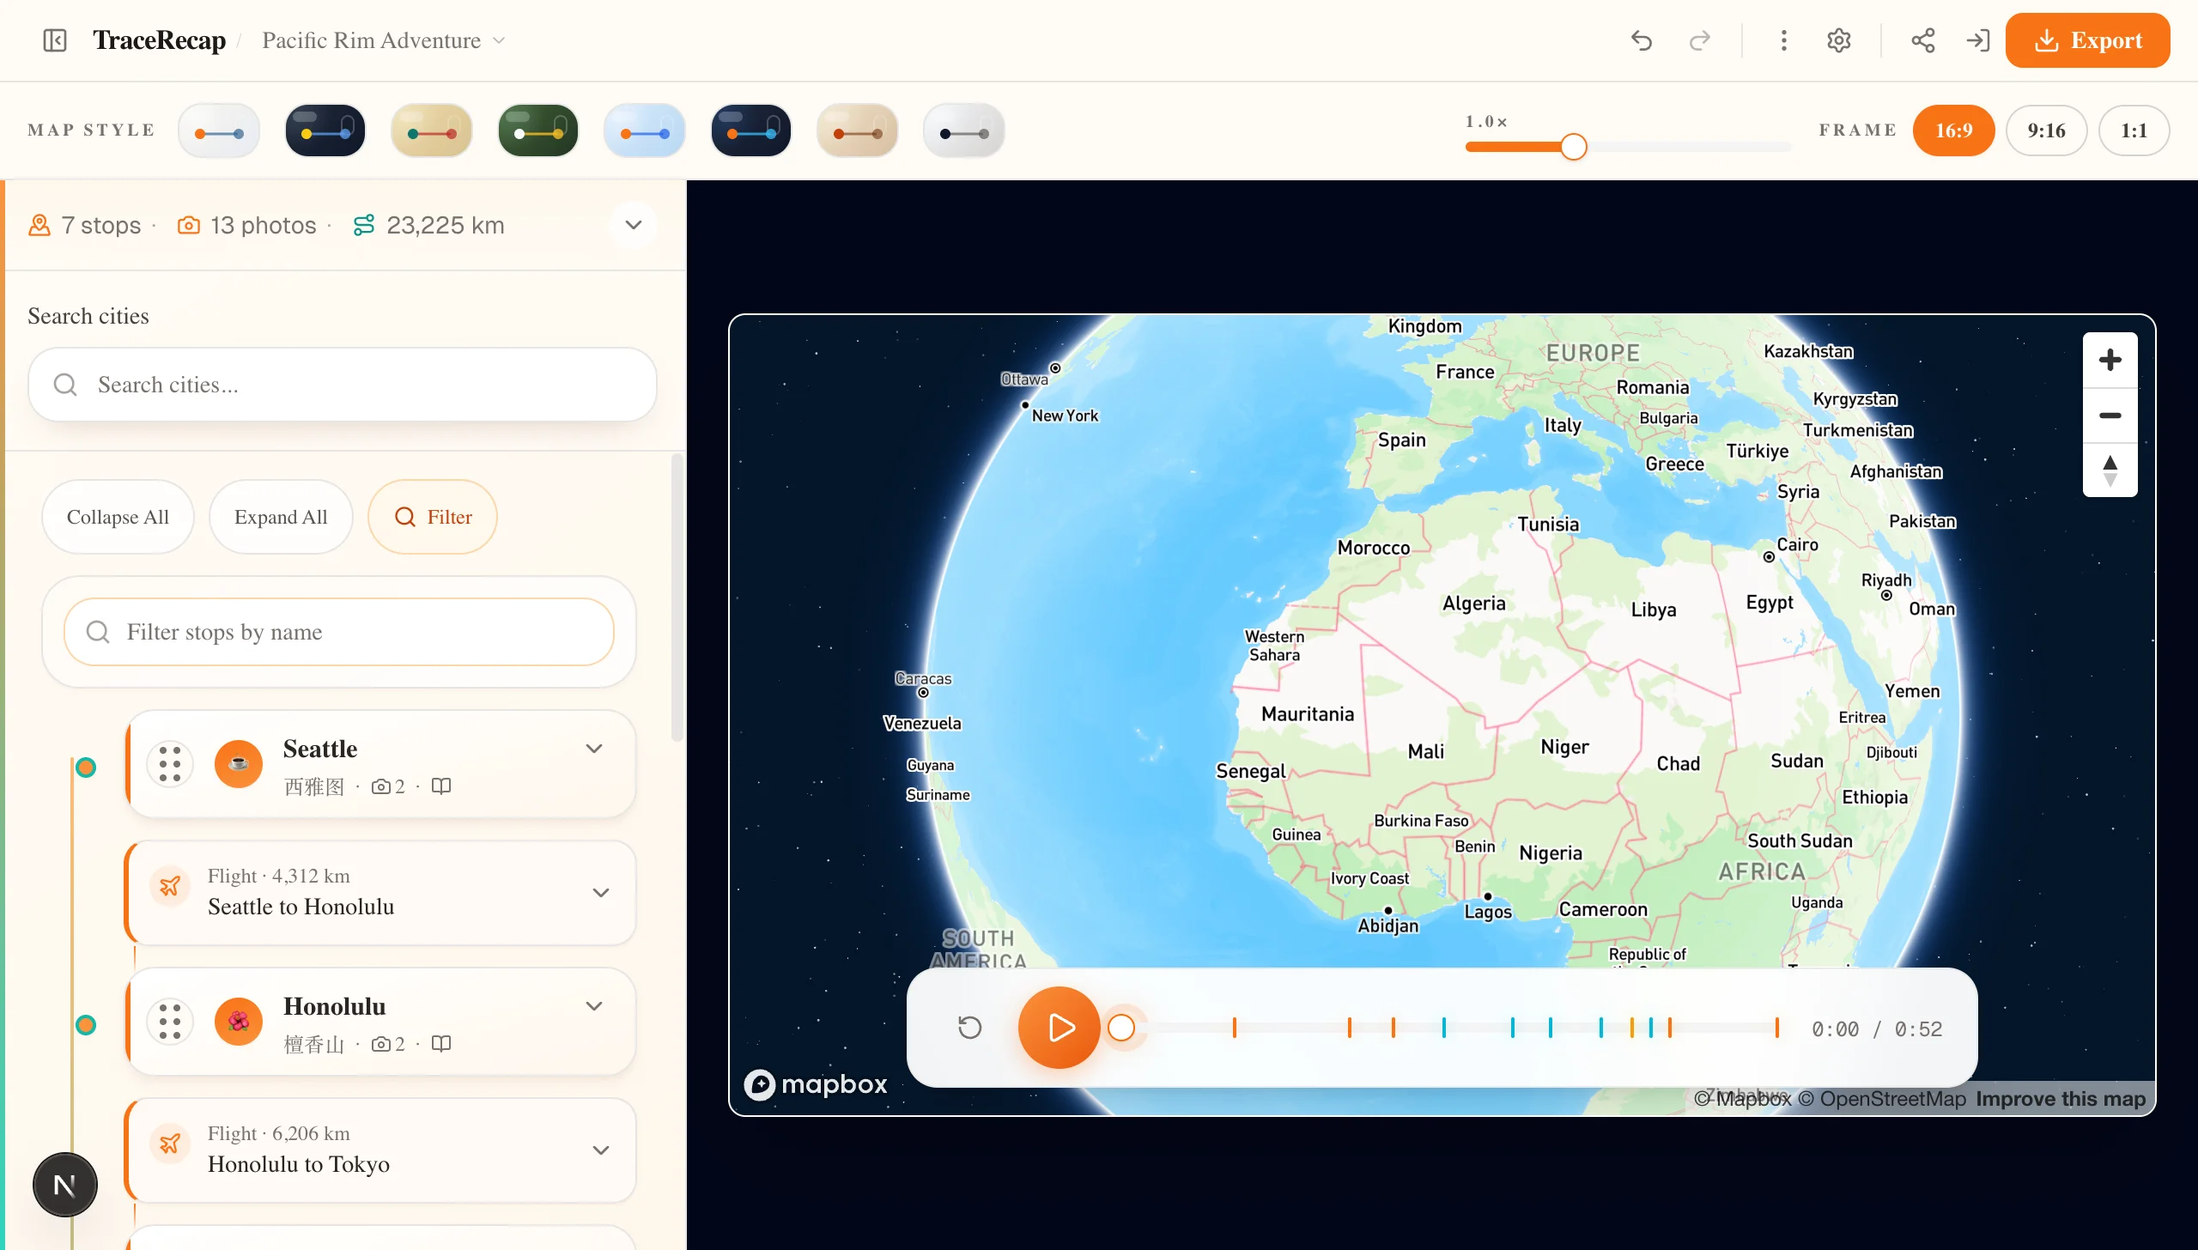
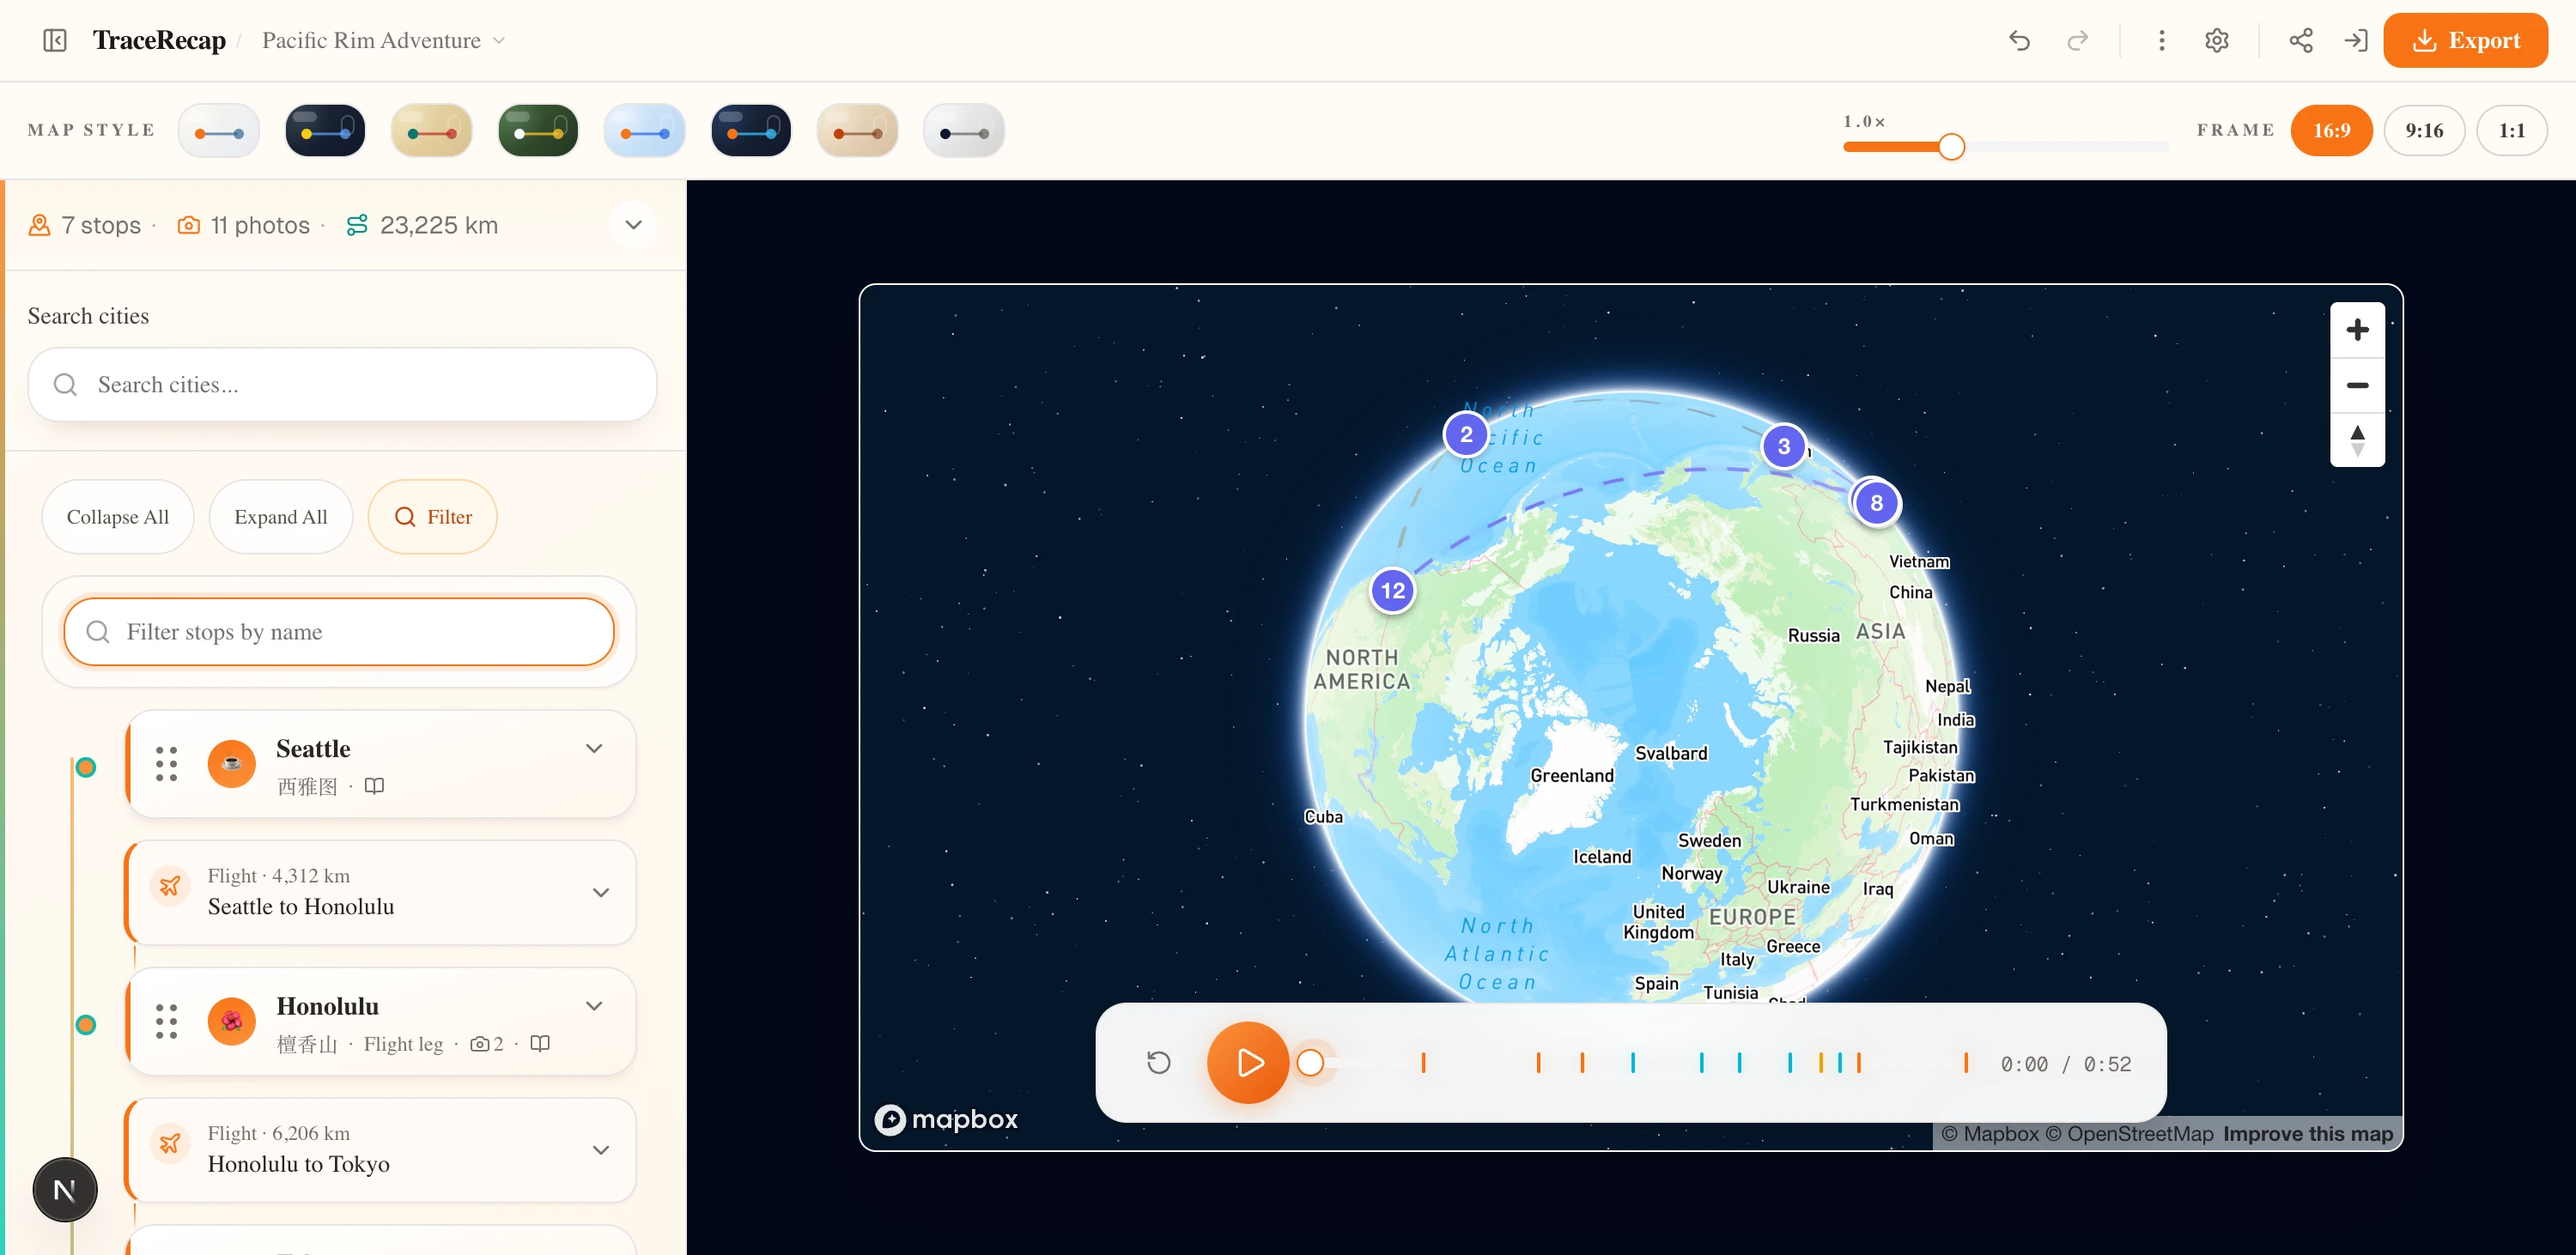
feat: add TraceRecap watermark to preview + export, update hero screenshot (#225)
Watermark:
- Preview: CSS overlay in MapStage, top-left corner, 35% opacity white
  text with shadow. Visible during playback and paused states.
- Export: Canvas 2D drawWatermark() at end of captureFrame(), bottom-right,
  40% opacity white with shadow. Font size scales with export resolution
  via scaleX (base 14px).

Hero screenshot:
- Updated to globe view showing Pacific Rim route with all stops visible
- Matches the actual editor UI with sidebar + map + playback bar

diff --git a/src/engine/VideoExporter.ts b/src/engine/VideoExporter.ts
@@ -3565,11 +3565,42 @@ export class VideoExporter {
     this.drawPhotos(offCtx, offscreen.width, offscreen.height, scaleX, scaleY, captured, frameIndex, fps, time, totalDuration);
     this.drawSceneTransitionPhotos(offCtx, offscreen.width, offscreen.height, scaleX, scaleY, captured, frameIndex, fps);
 
+    // Watermark — always last, on top of everything
+    this.drawWatermark(offCtx, offscreen.width, offscreen.height, scaleX);
+
     // Clear photo start tracking when photos stop showing so re-entry is tracked fresh
     const capturedProgress = captured.progress as AnimationEvent | null;
     if (!capturedProgress || !capturedProgress.showPhotos) {
       this.photoShowStartFrame.clear();
     }
+  }
+
+  private drawWatermark(
+    ctx: CanvasRenderingContext2D,
+    canvasWidth: number,
+    canvasHeight: number,
+    scaleX: number,
+  ): void {
+    const baseFontSize = 14;
+    const fontSize = Math.round(baseFontSize * scaleX);
+    const padding = Math.round(12 * scaleX);
+
+    ctx.save();
+    ctx.font = `600 ${fontSize}px Inter, system-ui, sans-serif`;
+    ctx.textAlign = "right";
+    ctx.textBaseline = "bottom";
+
+    // Shadow for readability on light backgrounds
+    ctx.shadowColor = "rgba(0,0,0,0.3)";
+    ctx.shadowBlur = 3 * scaleX;
+    ctx.shadowOffsetX = 0;
+    ctx.shadowOffsetY = 1 * scaleX;
+
+    // Semi-transparent white text
+    ctx.fillStyle = "rgba(255,255,255,0.4)";
+    ctx.fillText("TraceRecap", canvasWidth - padding, canvasHeight - padding);
+
+    ctx.restore();
   }
 
   private async exportWithWebCodecs(

diff --git a/src/components/editor/MapStage.tsx b/src/components/editor/MapStage.tsx
@@ -266,6 +266,23 @@ export default function MapStage({
           onPlayingMobileInsetChange={setPlaybackBarInsetPx}
         />
       )}
+      {/* Watermark — visible during playback */}
+      {(isPlaying || playbackState === "paused") && (
+        <div
+          className="pointer-events-none absolute left-3 top-3 z-20 select-none md:left-4 md:top-4"
+          style={{
+            opacity: 0.35,
+            textShadow: "0 1px 3px rgba(0,0,0,0.3)",
+          }}
+        >
+          <span
+            className="text-xs font-semibold tracking-wide text-white md:text-sm"
+            style={{ fontFamily: "Inter, system-ui, sans-serif" }}
+          >
+            TraceRecap
+          </span>
+        </div>
+      )}
     </div>
   );
 }
